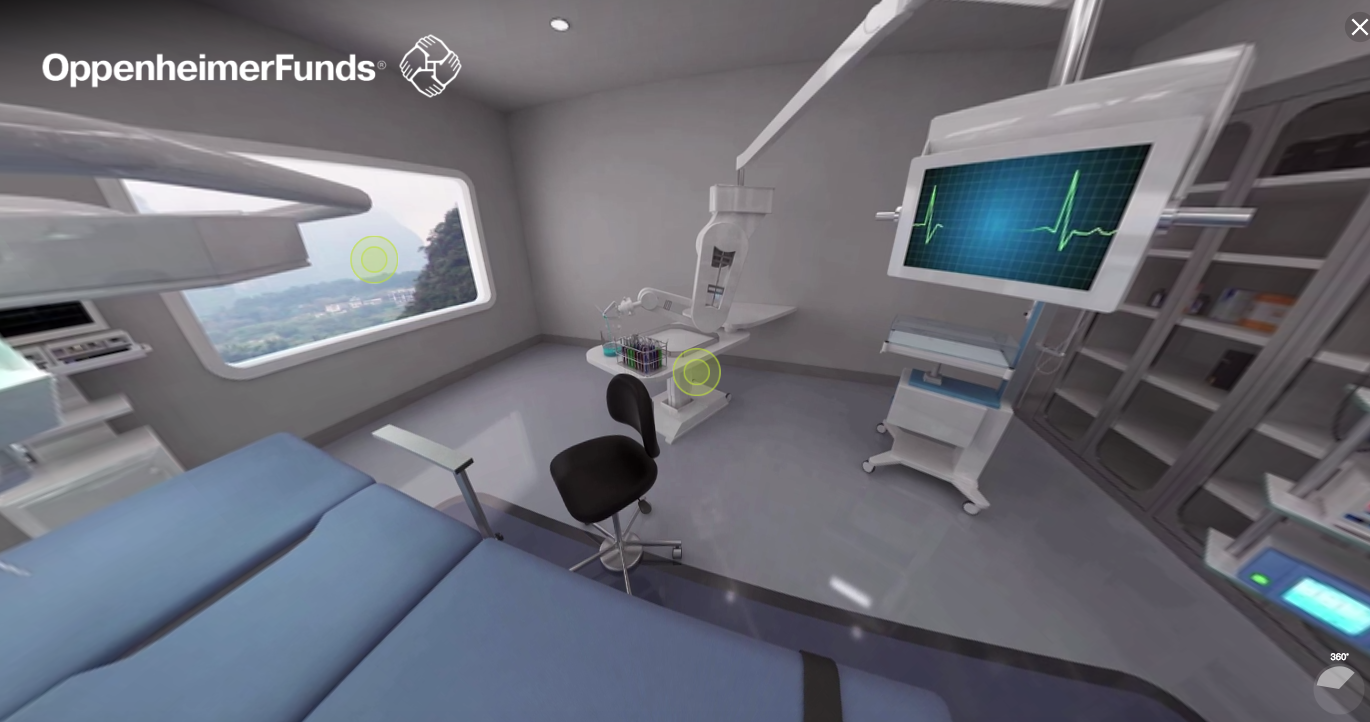
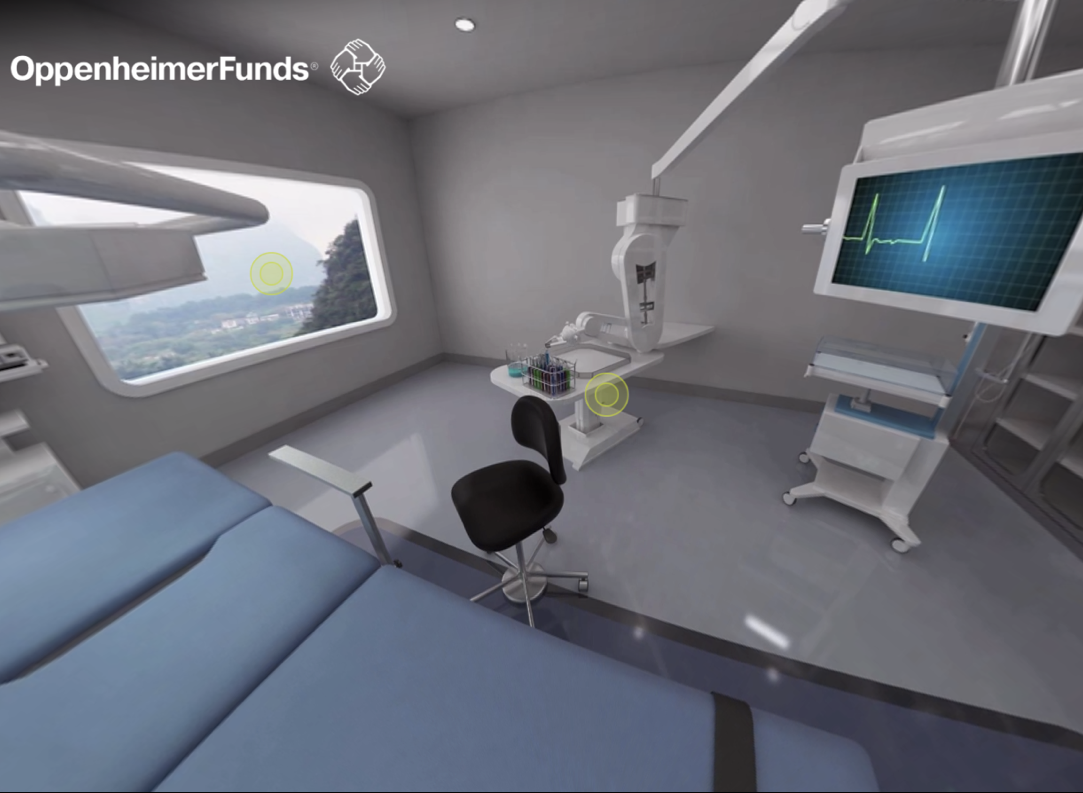
Additional Case Studies
Included: Cadillac, Medtronic and OFI research lab

diff --git a/LA/index.html b/LA/index.html
@@ -72,7 +72,7 @@
         <div class="container" id="maincontent" tabindex="-1">
             <div class="row">
                 <div class="col-lg-12">
-                    <img class="img-responsive" src="img/headshot.png" alt="">
+                    <img class="img-responsive" src="img/headshot.png" alt="headshot.png">
                     <div class="intro-text">
                         <h1 class="name">Lindsey Allard</h1>
                         <hr class="star-light">
@@ -158,6 +158,36 @@
                         <img src="img/TA.png" class="img-responsive" alt="TA">
                     </a>
                 </div>
+                <div class="col-sm-4 portfolio-item">
+                    <a href="#portfolioModal7" class="portfolio-link" data-toggle="modal">
+                        <div class="caption">
+                            <div class="caption-content">
+                                <i class="fa fa-search-plus fa-3x"></i>
+                            </div>
+                        </div>
+                        <img src="img/Mood_Board.png" class="img-responsive" alt="Mood_Board">
+                    </a>
+                </div>
+                <div class="col-sm-4 portfolio-item">
+                    <a href="#portfolioModal8" class="portfolio-link" data-toggle="modal">
+                        <div class="caption">
+                            <div class="caption-content">
+                                <i class="fa fa-search-plus fa-3x"></i>
+                            </div>
+                        </div>
+                        <img src="img/Medtronic_Viz.png" class="img-responsive" alt="Medtronic_Viz">
+                    </a>
+                </div>
+                <div class="col-sm-4 portfolio-item">
+                    <a href="#portfolioModal9" class="portfolio-link" data-toggle="modal">
+                        <div class="caption">
+                            <div class="caption-content">
+                                <i class="fa fa-search-plus fa-3x"></i>
+                            </div>
+                        </div>
+                        <img src="img/OFI_Research_Lab.png" class="img-responsive" alt="OFI_Research_Lab">
+                    </a>
+                </div>
             </div>
         </div>
     </section>
@@ -227,9 +257,7 @@
                     <div class="footer-col col-md-4">
                         <h3>Connect With Me!</h3>
                         <ul class="list-inline">
-                            <li>
-                                <a href="https://www.facebook.com/lindsey.allard" class="btn-social btn-outline"><span class="sr-only">Facebook</span><i class="fa fa-fw fa-facebook"></i></a>
-                            </li>
+                            
                             <li>
                                 <a href="https://www.linkedin.com/in/lindsey-allard-41a6465b/" class="btn-social btn-outline"><span class="sr-only">Linked In</span><i class="fa fa-fw fa-linkedin"></i></a>
                             </li>
@@ -427,6 +455,110 @@
                             <ul class="list-inline item-details">
                                 <li>Link:
                                     <strong><a href="http://bit.ly/1igjKeb">Travel Alberta Ad Units</a>
+                                    </strong>
+                                </li>
+                                
+                            </ul>
+                            <button id="btnSubmit" type="button" class="btn btn-default" data-dismiss="modal"><i class="fa fa-times"></i> Close</button>
+                        </div>
+                    </div>
+                </div>
+            </div>
+        </div>
+    </div>
+    
+<div class="portfolio-modal modal fade" id="portfolioModal7" tabindex="-1" role="dialog" aria-hidden="true">
+        <div class="modal-content">
+            <div class="close-modal" data-dismiss="modal">
+                <div class="lr">
+                    <div class="rl">
+                    </div>
+                </div>
+            </div>
+            <div class="container">
+                <div class="row">
+                    <div class="col-lg-8 col-lg-offset-2">
+                        <div class="modal-body">
+                            <h2>Cadillac Interactive Mood Board</h2>
+                            <hr class="star-primary">
+                            <img src="img/Mood_Board.png" class="img-responsive img-centered" alt="">
+                            <p>
+                                Challenge: Surrounding the Oscars, Coffee was asked to create an archetype selector tool on the Cadillac website to allow users to select the CT6 was personalized for them. <br/>
+                                Solution: Coffee created an interactive mood board that allowed users to select images that fit their personality and ultimately pick out a CT6 Cadillac that fit their personality, style and preferences. Users were then prompted to the Cadillac home page to schedule a consultation with a concierge product specialist to experience a test drive. 
+
+                            </p>
+                            <ul class="list-inline item-details">
+                                <li>Link:
+                                    <strong><a href="ttp://www.daregreatly.com/cadillac-ct6-inspired-by-you">Cadillac Interactive Mood Board</a>
+                                    </strong>
+                                </li>
+                                
+                            </ul>
+                            <button id="btnSubmit" type="button" class="btn btn-default" data-dismiss="modal"><i class="fa fa-times"></i> Close</button>
+                        </div>
+                    </div>
+                </div>
+            </div>
+        </div>
+    </div>
+<div class="portfolio-modal modal fade" id="portfolioModal8" tabindex="-1" role="dialog" aria-hidden="true">
+        <div class="modal-content">
+            <div class="close-modal" data-dismiss="modal">
+                <div class="lr">
+                    <div class="rl">
+                    </div>
+                </div>
+            </div>
+            <div class="container">
+                <div class="row">
+                    <div class="col-lg-8 col-lg-offset-2">
+                        <div class="modal-body">
+                            <h2>Medtronic Biometrics Experience</h2>
+                            <hr class="star-primary">
+                            <img src="img/Medtronic_Viz.png" class="img-responsive img-centered" alt="">
+                            <p>CHALLENGE: Enhance Medtronic’s sponsorship of US Bank Stadiumand the Minnesota Vikings with an engaging activationwithin the Medtronic Club.<br/>
+                            SOLUTION:COFFEE built and executed a multi-personbiometrics sensor system, which included:<br/>
+                            • Biometric Sensors placed throughoutUS Bank Stadium<br/>
+                            • Data Aggregation Platform• Interactive Large-Scale Displays<br/>
+                            • Custom Biometrics Visualizer based on overall lookand feel of the Medtronic Club (digital art visualization)<br/>
+                            • Production of Custom Audio Compositions to alignwith the visualizations and data feeds.
+                            </p>
+                            <ul class="list-inline item-details">
+                                <li>Link:
+                                    <strong><a href="https://app.box.com/s/4qcwpp8z1kxuwhyi3rda54502w31y5l1">Medtronic Biometrics Experience</a>
+                                    </strong>
+                                </li>
+                                
+                            </ul>
+                            <button id="btnSubmit" type="button" class="btn btn-default" data-dismiss="modal"><i class="fa fa-times"></i> Close</button>
+                        </div>
+                    </div>
+                </div>
+            </div>
+        </div>
+    </div>
+<div class="portfolio-modal modal fade" id="portfolioModal9" tabindex="-1" role="dialog" aria-hidden="true">
+        <div class="modal-content">
+            <div class="close-modal" data-dismiss="modal">
+                <div class="lr">
+                    <div class="rl">
+                    </div>
+                </div>
+            </div>
+            <div class="container">
+                <div class="row">
+                    <div class="col-lg-8 col-lg-offset-2">
+                        <div class="modal-body">
+                            <h2>Oppenheimer Funds CGI Doctor's Office</h2>
+                            <hr class="star-primary">
+                            <img src="img/OFI_Research_Lab.png" class="img-responsive img-centered" alt="">
+                            <p>CHALLENGE Bring the OppenheimerFunds brand to life throughinnovative digital ad units that can be served throughDoubleClick.<br/>
+                            SOLUTION<br/>
+                            COFFEE produced an immersive 360° expandable ad unit,featuring a CGI designed laboratory with custom contenthotspots.  This unit is fully produced in HTML5 and can beviewed on mobile devices through gyroscopic gestures.
+                            </p>
+                            <ul class="list-inline item-details">
+                                <li>Link:
+                                    <strong><a href="http://coffee.sand.box.biz/oppenheimer/robot/360/360iframe/Robot360-300x250-Fullscreen/">Oppenheimer Funds CGI Doctor's Office</a>
                                     </strong>
                                 </li>
                                 
